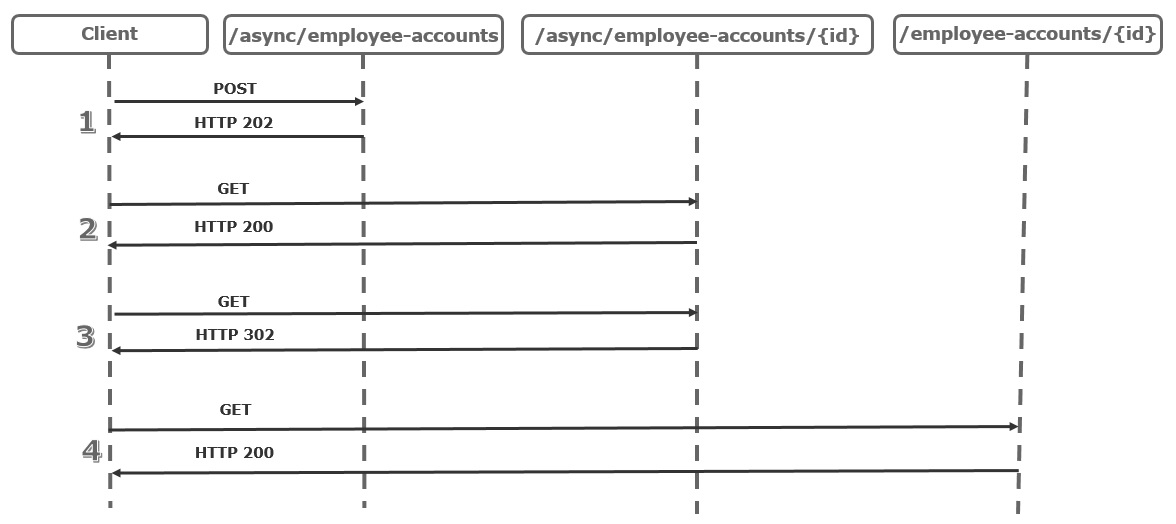
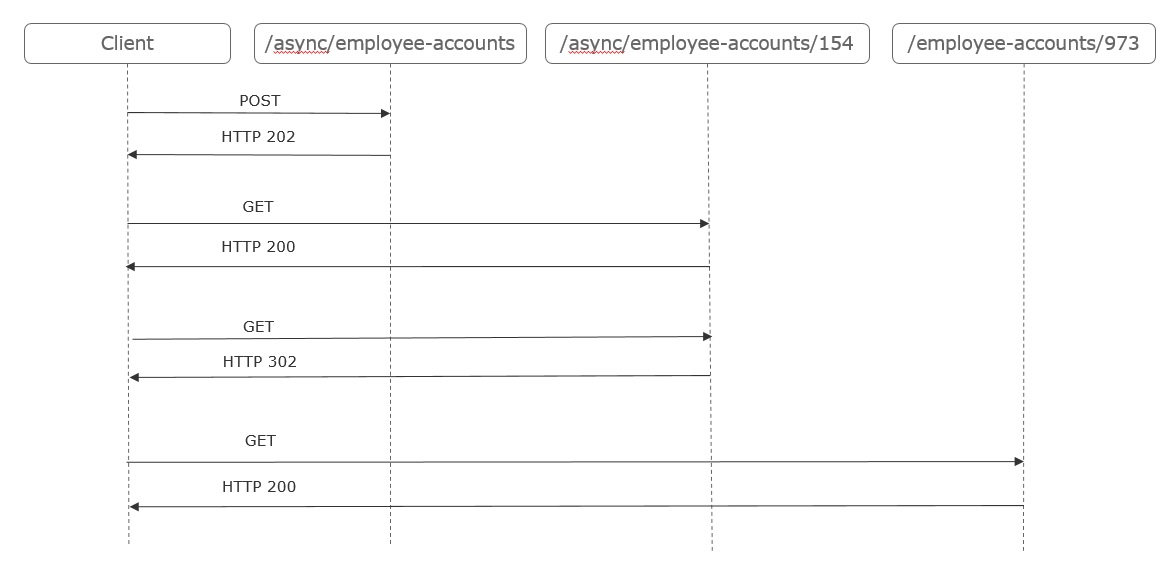
Modified 2 files

diff --git a/docs/1-whitepaper.md b/docs/1-whitepaper.md
@@ -846,10 +846,88 @@ Output:
 
 ### Asynchronous APIs
 
-For some business cases, there might the be need to develop APIs that perform long-running tasks. To avoid blocking the execution flow, these APIs should be designed considering the “async-first” principle, that emphasizes prioritizing and designing APIs with asynchronous behavior in mind to support non-blocking operations.
+In most cases, APIs for a client application are designed to respond quickly, on the order of 100 ms or less, many factors can affect the response latency.
 
-The APIs that follow this pattern should contain the word “async” in the path, and the following steps should be taken into consideration:
-1. The client application makes a synchronous call to an API, triggering a long-running operation on the backend – the API responds synchronously, as quickly as possible, with a HTTP 202 (Accepted) status code, acknowledging that the request has been received for processing.
-2. The body of the response holds a location reference pointing to an endpoint that the client can pool to check for the result of the long running operation (status endpoint).
-3. For every successful call to the status endpoint, it returns HTTP 202. While the work is still pending, the status endpoint returns a resource that indicates the work is still in progress.
-4. Once the work is complete, the status endpoint can either return a resource that indicates completion or redirect to another resource URL.
+In some scenarios, however, the work done by backend may be long-running, on the order of seconds, or might be a background process that is executed in minutes or even hours. In that case, it isn't feasible to wait for the work to complete before responding to the request. This situation is a potential problem for any synchronous request-reply pattern.
+
+One solution to this problem is to use HTTP polling. Polling is useful to client-side code,as it can be hard to provide call-back endpoints or use long running connections. Even when callbacks are possible, the extra libraries and services that are required can sometimes add too much extra complexity.
+
+Below is a drawing showing how we should think about Async. Let's use the resource employee accounts as an example.
+
+<table>
+  <p align="center">
+    <img src="../static/async.jpg" alt="Async" height="600" width="700" focus="false"/>
+  </p>
+</table>
+
+1 - POST - /async/employee-accounts 
+
+Response HTTP 202
+
+```json
+{
+  "id": "10499532",
+  "kind": "api.bancobpi.pt/employee-accounts/v1/async/employee-accounts",
+  "status": "waiting",
+  "_links": {
+    "request": {
+      "href": "https://api.bancobpi.pt/employee-accounts/v1/async/employee-accounts/10499532"
+    }
+  }
+}
+````
+
+2 - GET - /async/employee-accounts/{id}
+
+Response HTTP 200
+
+```json
+{
+  "id": "10499532",
+  "kind": "api.bancobpi.pt/employee-accounts/v1/async/employee-accounts",
+  "status": "processing",
+}
+````
+
+3 - GET - /async/employee-accounts/{id}
+
+Response HTTP 302
+
+```json
+{
+  "id": "10499532",
+  "kind": "api.bancobpi.pt/employee-accounts/v1/async/employee-accounts",
+  "status": "done",
+  "resourceId": "4f61",
+  "_links": {
+    "resource": {
+      "href": "https://api.bancobpi.pt/employee-accounts/v1/employee-accounts/4f61"
+    }
+  }
+}
+````
+
+4 - GET - /employee-accounts/{id}
+
+Response HTTP 200
+
+```json
+{
+  "id": "4f61",
+  "kind": "api.bancobpi.pt/employee-accounts/v1/employee-accounts",
+  "externalReference": "50138fbd-33a8-4b5e-b93f-91bd51681793",
+  "taxIdentificationNumber": "123555999",
+  "status": "active",
+  "fullName": "João Silva",
+  "mec": "516611",
+  "email": "joao.silva@bpi.pt",
+  "displayName": "João Silva",
+  "bondType": "retired",
+  "kindType": "internal",
+  "_links": {
+    "self": {
+      "href": "https://api.bancobpi.pt/employee-accounts/v1/employee-accounts/4f61"
+    }
+  }
+}
+````
